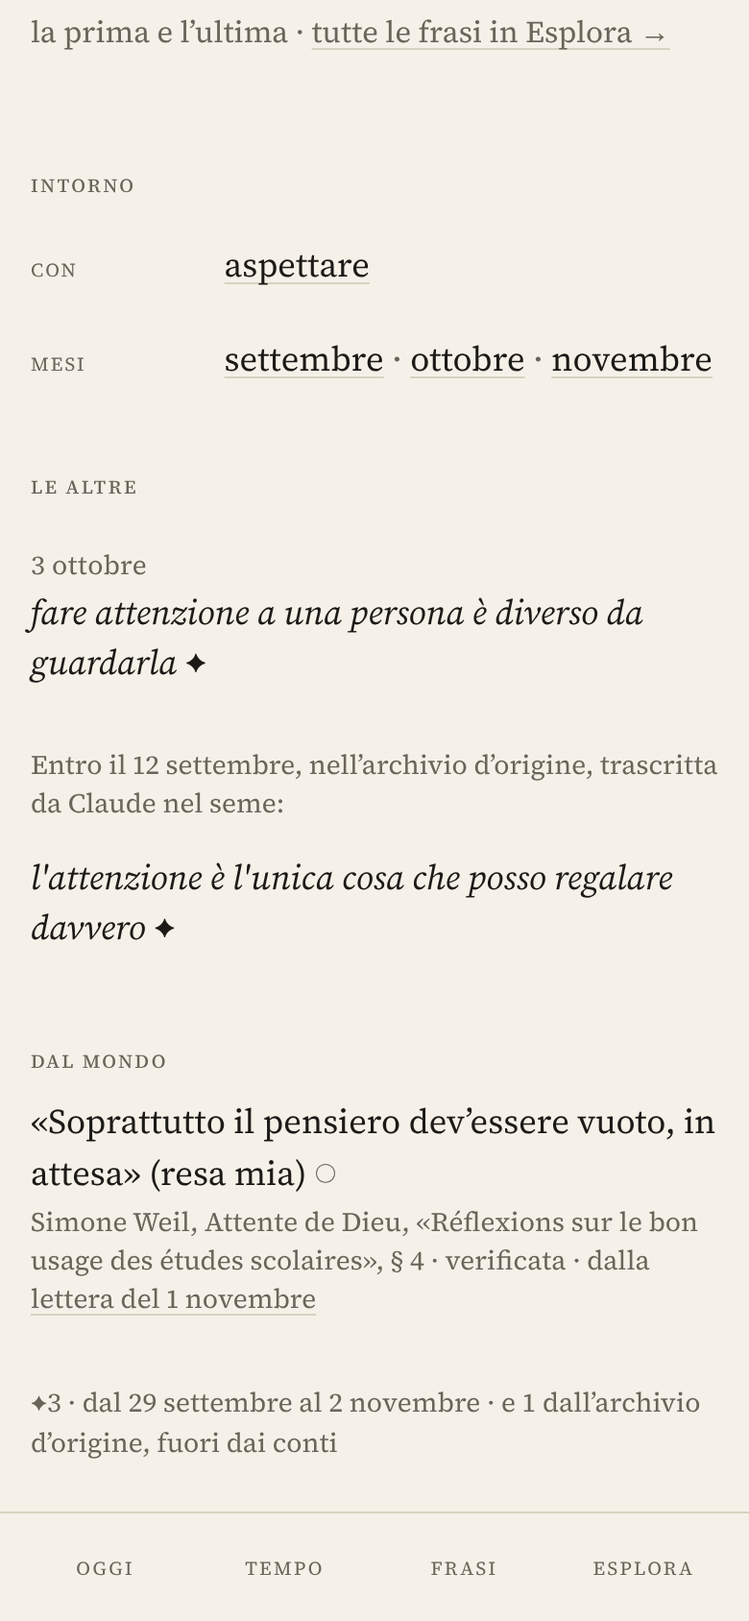
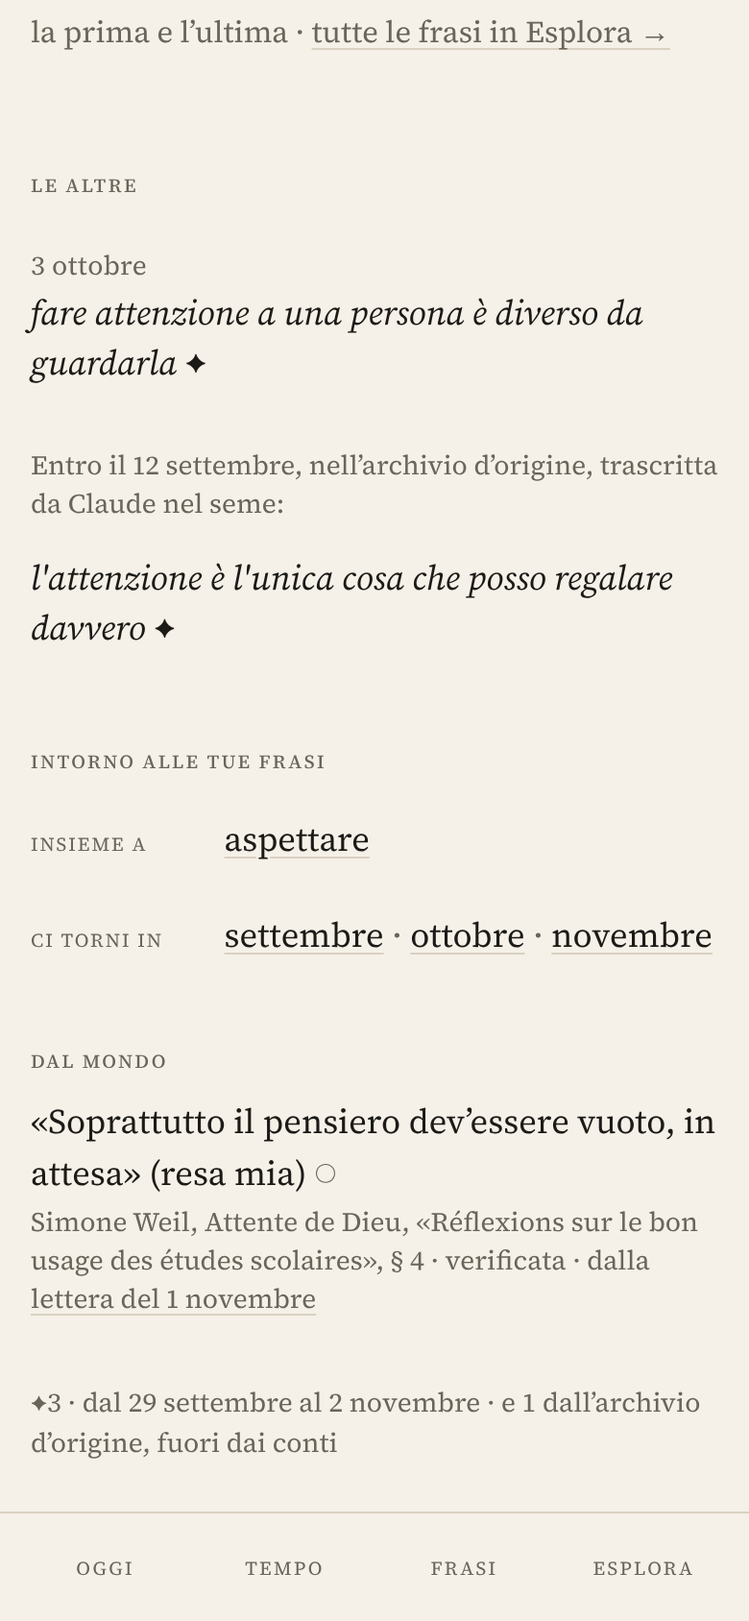
Sito: secondo giro dei giudici, correzioni (correzione con bersaglio, penso, gufo, o anche, parola in chip, nodo)
Claude-Session: https://claude.ai/code/session_016XqAM2UmaSasUMWv1BgCEh

diff --git a/progetto/sito/prototipo/index.html b/progetto/sito/prototipo/index.html
@@ -343,7 +343,7 @@ const F = {
   '20261020-2214-k3q1': { reg: '2026-10-20T22:14', canale: 'telefono', testo: 'il faro spento, piccolo, sulla caviglia. da tatuare', serve: 'tatuaggi', temi: ['faro'], misura: 'm' },
   '20261021-2120-aa16': { reg: '2026-10-21T21:20', canale: 'telefono', testo: 'twin peaks rivisto, la signora del ceppo. mi fa ridere e paura insieme', nomina: ['twin-peaks', 'la-signora-del-ceppo'] },
   '20261022-0905-m2q7': { reg: '2026-10-22T09:05', canale: 'telefono', testo: 'quello che cerchi ti sta cercando. rumi credo', nomina: ['quello-che-cerchi-ti-sta-cercando'], prop: ['aspettare'] },
-  '20261023-2300-aa17': { reg: '2026-10-23T23:00', canale: 'telefono', testo: 'il gufo che non è quello che sembra, la frase di twin peaks. da tatuare? forse', nomina: ['i-gufi-non-sono-quello-che-sembrano'], serve: 'tatuaggi', misura: 'p' },
+  '20261023-2300-aa17': { reg: '2026-10-23T23:00', canale: 'telefono', testo: 'il gufo che non è quello che sembra, la frase di twin peaks. da tatuare? forse', nomina: ['i-gufi-non-sono-quello-che-sembrano', 'twin-peaks'], serve: 'tatuaggi', misura: 'p' },
   '20261024-1830-aa18': { reg: '2026-10-24T18:30', canale: 'telefono', testo: 'il caduceo di ermete trismegisto, a linea sottile. per i tatuaggi', nomina: ['ermete-trismegisto'], temi: ['linea'], serve: 'tatuaggi', misura: 'm' },
   '20261025-2215-aa19': { reg: '2026-10-25T22:15', canale: 'telefono', testo: "forse il dolore è l'unico posto dove ho imparato qualcosa", temi: ['dolore'], pos: true },
   '20261026-1840-n5r1': { reg: '2026-10-26T18:40', canale: 'telefono', testo: "a mare oggi c'era una luce che non sapevo di ricordare", temi: ['mare'] },
@@ -393,7 +393,6 @@ const NODI = {
   orfeo: { nome: 'Orfeo', genere: 'persone', cerchia: 'finzione', campo: ['mito-e-religione'] },
   'ermete-trismegisto': { nome: 'Ermete Trismegisto', genere: 'persone', cerchia: 'finzione', campo: ['esoterismo'] },
   'la-signora-del-ceppo': { nome: 'la signora del ceppo', genere: 'persone', cerchia: 'finzione', in: 'twin-peaks' },
-  'il-gigante': { nome: 'il gigante', genere: 'persone', cerchia: 'finzione', in: 'twin-peaks' },
   papa: { nome: 'papà', genere: 'persone', cerchia: 'vita' },
   luca: { nome: 'Luca', genere: 'persone', cerchia: 'vita' },
   'le-citta-invisibili': { nome: 'Le città invisibili', genere: 'opere', tipo: 'libro', autore: 'italo-calvino', anno: 1972, campo: ['letteratura'] },
@@ -408,7 +407,7 @@ const NODI = {
   mushishi: { nome: 'Mushishi', genere: 'opere', tipo: 'serie', anno: 2005, campo: ['cinema'] },
   'quello-che-cerchi-ti-sta-cercando': { nome: 'Quello che cerchi ti sta cercando', genere: 'citazioni', attribuita: 'rumi', esito: null },
   'pensare-e-fermarsi': { nome: 'Pensare è fermarsi', genere: 'citazioni', attribuita: 'hannah-arendt', esito: null },
-  'i-gufi-non-sono-quello-che-sembrano': { nome: 'I gufi non sono quello che sembrano', genere: 'citazioni', attribuita: 'il-gigante', esito: null },
+  'i-gufi-non-sono-quello-che-sembrano': { nome: 'I gufi non sono quello che sembrano', genere: 'citazioni', esito: null },
   'l-inferno-dei-viventi': { nome: 'L’inferno dei viventi', genere: 'citazioni', autore: 'italo-calvino', attribuita: 'italo-calvino', esito: 'verificata', rif: 'Le città invisibili, parte nona, l’ultimo dialogo' },
   tatuaggi: { nome: 'tatuaggi', genere: 'raccolte', scopo: null },
 };
@@ -491,7 +490,7 @@ function valori(id, lente) {
     else if (n.genere === 'citazioni') {
       v.nodi.add(s); v.cose.add('c:citazione'); v.cose.add('e:' + (n.esito || 'da-verificare')); v.cose.add('o:' + s);
       if (n.autore) persona(n.autore);
-      if (n.attribuita && n.attribuita !== n.autore) { const p = NODI[n.attribuita]; v.persone.add(n.attribuita); v.nodi.add(n.attribuita); if (!n.autore) campoDi(n.attribuita); if (p.in) opera(p.in, true); }
+      if (n.attribuita && n.attribuita !== n.autore) { const p = NODI[n.attribuita]; v.persone.add(n.attribuita); v.nodi.add(n.attribuita); if (p.in) opera(p.in, true); }
     }
   }
   const temi = [...(f.temi || []), ...(lente ? f.prop || [] : [])];
@@ -526,7 +525,7 @@ function indirizzo(st = ESP) {
   const s = p.toString();
   return '#/esplora' + (s ? '?' + s : '');
 }
-const conValore = (asse, v, st = ESP) => { const sel = { ...st.sel }; sel[asse] = new Set([...(sel[asse] || []), v]); return indirizzo({ ...st, sel }); };
+const conValore = (asse, v, st = ESP) => { const sel = { ...st.sel }; sel[asse] = new Set([...(sel[asse] || []), v]); if (v.startsWith('e:')) sel[asse].delete('c:citazione'); return indirizzo({ ...st, sel }); };
 const senzaValore = (asse, v, st = ESP) => { const sel = { ...st.sel }; const s = new Set(sel[asse]); s.delete(v); if (s.size) sel[asse] = s; else delete sel[asse]; return indirizzo({ ...st, sel }); };
 const solo = (asse, v, da) => indirizzo({ sel: { [asse]: new Set([v]) }, da: da || null, q: '', lente: false });
 
@@ -570,6 +569,7 @@ const nomeNodo = (s) => (s && NODI[s] ? NODI[s].nome : '');
 function chipAttive() {
   const xs = [];
   if (ESP.da) xs.push(`<a class="chip da" href="${indirizzo({ ...ESP, da: null })}" aria-label="togli ${esc(nomeNodo(ESP.da))}">da ${esc(nomeNodo(ESP.da))}<span aria-hidden="true">×</span></a>`);
+  if (ESP.q) xs.push(`<a class="chip attivo" href="${indirizzo({ ...ESP, q: '' })}" aria-label="togli la parola">«${esc(ESP.q)}»<span aria-hidden="true">×</span></a>`);
   for (const a of ASSI) for (const x of ESP.sel[a.k] || []) xs.push(`<a class="chip attivo${a.prop ? ' c-prop' : ''}" href="${senzaValore(a.k, x)}" aria-label="togli ${esc(etichetta(a.k, x))}">${CS(esc(etichetta(a.k, x)))}${a.prop ? '&nbsp;◌' : ''}<span aria-hidden="true">×</span></a>`);
   return xs.join('');
 }
@@ -614,10 +614,22 @@ function risultatiEsplora() {
   const tuoi = ids.filter((id) => !imp(id)), orig = ids.filter(imp);
   const nomi = nomiTrovati(ids);
   const delic = ESP.q ? Object.keys(F).filter((id) => F[id].delicato && norm(F[id].testo).includes(norm(ESP.q))) : [];
-  // Restringi: i valori degli altri assi che restringono davvero, a un tocco (senza aprire il foglio).
-  const restr = ids.length > 1 ? ASSI.flatMap((a) => { const m = conteggi(a.k); return ordinati(a.k, m).filter((x) => !(ESP.sel[a.k] || new Set()).has(x) && m.get(x).n > 0 && m.get(x).n < ids.filter((i) => !imp(i)).length && passa2(x, a.k)).slice(0, 3).map((x) => [a, x, m.get(x)]); }).slice(0, 10) : [];
+  // Restringi: i valori degli altri assi che restringono davvero; dentro un asse già scelto, «o anche» (allarga: O).
+  // Le citazioni scelte si restringono per esito. Nessun taglio: la riga scorre, e in fondo «tutti i filtri».
+  const tot = ids.filter((i) => !imp(i)).length;
+  const restr = [], oanche = [];
+  if (ids.length) for (const a of ASSI) {
+    const m = conteggi(a.k); const scelti = ESP.sel[a.k] || new Set();
+    if (a.k === 'cose' && scelti.has('c:citazione')) { const mm = conteggi('cose', { ...ESP, sel: { ...ESP.sel, cose: new Set(['c:citazione']) } }); ESITI.map((e) => 'e:' + e).filter((x) => mm.has(x) && mm.get(x).n).forEach((x) => restr.push([a, x, mm.get(x)])); }
+    for (const x of ordinati(a.k, m)) {
+      if (scelti.has(x) || !m.get(x).n) continue;
+      if (scelti.size) { if (!x.startsWith('e:') && !(x.startsWith('o:') && [...scelti].some((s) => s.startsWith('f:')))) oanche.push([a, x, m.get(x)]); }
+      else if (m.get(x).n < tot && !(a.k === 'cose' && x.startsWith('e:'))) restr.push([a, x, m.get(x)]);
+    }
+  }
+  const riga = (cls, titolo, xs) => xs.length ? `<div class="chips restringi" role="group" aria-label="${titolo}"><span class="sc">${titolo}</span>${xs.map(([a, x, c]) => `<a class="chip${a.prop ? ' c-prop-l' : ''}" href="${conValore(a.k, x)}">${CS(esc(etichetta(a.k, x)))}${a.prop ? '&nbsp;◌' : ''}${numero(c)}</a>`).join('')}<button class="chip" data-tutti>tutti i filtri</button></div>` : '';
   return `<p class="totale" aria-live="polite">${totale(ids)}${nomi.length ? ` · ${nomi.length} ${nomi.length === 1 ? 'nome' : 'nomi'}` : ''}</p>
-    ${restr.length ? `<div class="chips restringi" role="group" aria-label="Restringi"><span class="sc">restringi</span>${restr.map(([a, x, c]) => `<a class="chip${a.prop ? ' c-prop-l' : ''}" href="${conValore(a.k, x)}">${CS(esc(etichetta(a.k, x)))}${a.prop ? '&nbsp;◌' : ''}${numero(c)}</a>`).join('')}</div>` : ''}
+    ${riga('restringi', 'restringi', restr)}${riga('oanche', 'o anche', oanche)}
     ${nomi.length ? `<h2>nomi</h2><p class="nomi">${nomi.map((s) => `<a href="#/nodo/${s}">${esc(NODI[s].nome)}</a>${NODI[s].genere === 'citazioni' && !NODI[s].esito ? vf : ''}`).join('<span class="sep"> · </span>')}</p>` : ''}
     ${ids.length ? `<h2>le tue frasi</h2><ul class="righe">${tuoi.map(rigaFrase).join('')}</ul>` : `<p class="vuoto">${vuotoDetto()}</p>`}
     ${orig.length ? `<p class="nota-r">${tetto(orig[0])}, ${orig.length > 1 ? 'trascritte' : 'trascritta'} da Claude nel seme:</p><ul class="righe">${orig.map(rigaFrase).join('')}</ul>` : ''}
@@ -814,25 +826,25 @@ function faccetteNodo(slug) {
     else if (n.in) p.push(`personaggio · <a href="#/nodo/${n.in}">${NODI[n.in].nome}</a>`);
     else { p.push(n.cerchia === 'finzione' ? 'figura' : 'persona'); p.push(...campo()); }
   }
-  if (n.genere === 'citazioni') { p.push(`<a href="${solo('cose', 'c:citazione')}">citazione</a>`); p.push(`attribuita a <a href="#/nodo/${n.attribuita}">${NODI[n.attribuita].nome}</a>`); p.push(n.esito ? `<a href="${solo('cose', 'e:' + n.esito)}">${n.esito}</a>` : `<a href="${solo('cose', 'e:da-verificare')}">da verificare</a>${vf}`); }
+  if (n.genere === 'citazioni') { p.push(`<a href="${solo('cose', 'c:citazione')}">citazione</a>`); if (n.attribuita) p.push(`attribuita a <a href="#/nodo/${n.attribuita}">${NODI[n.attribuita].nome}</a>`); p.push(n.esito ? `<a href="${solo('cose', 'e:' + n.esito)}">${n.esito}</a>` : `<a href="${solo('cose', 'e:da-verificare')}">da verificare</a>${vf}`); }
   if (n.genere === 'raccolte') p.push('raccolta · senza scopo');
   return `<p class="faccette">${p.join('<span class="sep"> · </span>')}</p>`;
 }
 // «Intorno»: le faccette delle frasi del nodo, in poche righe di parole. Ogni parola apre Esplora da qui.
 function intorno(slug, ids) {
   const conta = (asse, filtro) => { const m = new Map(); ids.forEach((id) => val(id, false)[asse].forEach((x) => { if (filtro(x)) m.set(x, (m.get(x) || 0) + (imp(id) ? 0 : 1)); })); return [...m].filter(([, c]) => c > 0).sort((a, b) => b[1] - a[1]); };
-  const riga = (titolo, asse, xs) => xs.length ? `<p class="intorno"><span class="t">${titolo}</span><span class="vs">${xs.map(([x]) => `<a href="${da(slug, asse, x)}">${esc(asse === 'tempo' ? MESI[+x.slice(5, 7) - 1] : etichetta(asse, x))}</a>`).join('<span class="sep"> · </span>')}</span></p>` : '';
+  const riga = (titolo, asse, xs) => !xs.length ? '' : titolo === 'quando' ? `<p class="intorno"><span class="t">dentro</span><span class="vs">${xs.map(([x]) => `<a href="${da(slug, asse, x)}">${esc(etichetta(asse, x))}</a>`).join('<span class="sep"> · </span>')}</span></p>` : xs.length ? `<p class="intorno"><span class="t">${titolo}</span><span class="vs">${xs.map(([x]) => `<a href="${da(slug, asse, x)}">${esc(asse === 'tempo' ? MESI[+x.slice(5, 7) - 1] : etichetta(asse, x))}</a>`).join('<span class="sep"> · </span>')}</span></p>` : '';
   const temi = conta('temi', (x) => x.startsWith('t:') && x !== 't:' + slug);
   const nomi = [...conta('persone', (x) => x !== slug && x !== NODI[slug].autore && x !== NODI[slug].attribuita).map(([x, c]) => ['p', x, c]), ...conta('cose', (x) => x.startsWith('o:') && x !== 'o:' + slug && NODI[x.slice(2)].genere === 'opere').map(([x, c]) => ['c', x, c])];
   const gesti = conta('gesto', () => true);
   const mesi = conta('tempo', (x) => x !== 'origine').sort((a, b) => a[0].localeCompare(b[0]));
   const out = [
-    riga('con', 'temi', temi),
-    nomi.length ? `<p class="intorno"><span class="t">nominano</span><span class="vs">${nomi.map(([t, x]) => `<a href="${da(slug, t === 'p' ? 'persone' : 'cose', x)}">${esc(etichetta(t === 'p' ? 'persone' : 'cose', x))}</a>`).join('<span class="sep"> · </span>')}</span></p>` : '',
-    riga('gesti', 'gesto', gesti),
-    riga('mesi', 'tempo', mesi),
+    riga('insieme a', 'temi', temi),
+    nomi.length ? `<p class="intorno"><span class="t">nomini</span><span class="vs">${nomi.map(([t, x]) => `<a href="${da(slug, t === 'p' ? 'persone' : 'cose', x)}">${esc(etichetta(t === 'p' ? 'persone' : 'cose', x))}</a>`).join('<span class="sep"> · </span>')}</span></p>` : '',
+    riga('quando', 'gesto', gesti),
+    riga('ci torni in', 'tempo', mesi),
   ].join('');
-  return out ? `<h2>intorno</h2>${out}` : '';
+  return out ? `<h2>intorno alle tue frasi</h2>${out}` : '';
 }
 V.nodo = (slug) => {
   const n = NODI[slug]; if (!n) return V.vuoto();
@@ -855,11 +867,11 @@ V.nodo = (slug) => {
       <h1>${esc(n.nome)}</h1>
       ${faccetteNodo(slug)}
       ${coppia || '<p class="servizio">Niente si aggancia ancora.</p>'}
-      ${tel.length ? `<p class="servizio" style="margin-top:1.4em">${y ? 'la prima e l’ultima · ' : ''}<a href="${da(slug)}">tutte le frasi in Esplora →</a></p>` : ''}
+      ${tel.length && !vita ? `<p class="servizio" style="margin-top:1.4em">${y ? 'la prima e l’ultima · ' : ''}<a href="${da(slug)}">tutte le frasi in Esplora →</a></p>` : ''}
     </div>
-    ${vita ? '<p class="servizio">Una persona della tua vita: solo le tue frasi, niente proposte, mai in una ricerca, mai un ponte.</p>' : intorno(slug, ids)}
-    ${altre.length ? `<h2>le altre</h2><ul class="righe">${altre.slice(0, 4).map((id) => `<li>${frase(id)}</li>`).join('')}</ul>` : ''}
+    ${altre.length ? `<h2>le altre</h2><ul class="righe">${altre.slice(0, vita ? 99 : 4).map((id) => `<li>${frase(id)}</li>`).join('')}</ul>` : ''}
     ${orig.length ? `<p class="nota-r">${tetto(orig[0])}, ${orig.length > 1 ? 'trascritte' : 'trascritta'} da Claude nel seme:</p><ul class="righe">${orig.map((id) => `<li>${frase(id, { data: false })}</li>`).join('')}</ul>` : ''}
+    ${vita ? '<p class="servizio">Una persona della tua vita: le tue frasi stanno tutte qui. Niente proposte, mai un filtro, mai in una ricerca web, mai un ponte.</p>' : intorno(slug, ids)}
     ${mondo}
     ${slug === 'tatuaggi' ? '<p><a href="#/tatuaggi">la tavola dei tatuaggi →</a></p>' : ''}
     ${propIds.length && !vita ? `<div class="l2"><h2>le mie proposte</h2><ul class="righe">${propIds.map((id) => `<li class="smorzata">${frase(id)}<span class="luogo">una mia lettura ◌, non tua</span></li>`).join('')}</ul></div>` : ''}
@@ -997,7 +1009,7 @@ document.addEventListener('click', (e) => {
   const s = e.target.closest('[data-s]');
   if (s) { document.documentElement.dataset.strato = s.dataset.s; try { localStorage.setItem('mn-strato', s.dataset.s); } catch (x) {} return; }
   const v = e.target.closest('[data-voce]'); if (v) return apri(foglioVoce(v.dataset.voce));
-  if (e.target.closest('#filtra')) return apri(foglioFiltri(), 'Filtri');
+  if (e.target.closest('#filtra') || e.target.closest('[data-tutti]')) return apri(foglioFiltri(), 'Filtri');
   const fv = e.target.closest('[data-asse]');
   if (fv) { const s = new Set(ESP.sel[fv.dataset.asse] || []); s.has(fv.dataset.v) ? s.delete(fv.dataset.v) : s.add(fv.dataset.v); if (s.size) ESP.sel[fv.dataset.asse] = s; else delete ESP.sel[fv.dataset.asse]; return aggiornaEsplora(); }
   const al = e.target.closest('[data-altri]'); if (al) { al.parentNode.classList.add('tutti'); al.remove(); return; }

diff --git a/progetto/sito/dimensioni.md b/progetto/sito/dimensioni.md
@@ -88,17 +88,22 @@ l'«Esito» nelle Cose (sotto «citazione»).
   `canzone` sostituisce `brano` anche in `voci[].cosa` delle restituzioni: «canzone» è la parola dell'utente, e oggi
   nessuna restituzione usa `brano` (0 su 177 voci), quindi nessun file si migra. `libro` e `film` coincidono già.
 - **Esiti della citazione:** `verificata · simile · errata · non trovata · ⚠` (l'assenza di `esito`).
-- **Chi lo riempie, con quale segno:** il tipo lo scrive "consolida", e in pagina **non porta segno**: come l'`anno`,
-  è un fatto del mondo verificabile su un nome `mondo` (una canzone è una canzone), non una lettura. L'esito c'è già, ○
+- **Chi lo riempie, con quale segno:** il tipo lo scrive "consolida", e in pagina **non porta segno**, come l'`anno`,
+  perché ha sempre una fonte: le parole dell'utente («la canzone…», «lo spettacolo di…») o la verifica rapida sul nome
+  `mondo` (un catalogo: una canzone è una canzone). Senza l'una o l'altra il tipo non si scrive e il nodo resta in
+  «Da classificare». Il campo e la specie invece sono scelte di classificazione senza fonte: per questo sono ◌. L'esito c'è già, ○
   quando è scritto, ⚠ quando manca.
 - **Si legge da:** `opere.tipo` (nuovo); `citazioni.esito` (esiste).
 - **Una frase ha il tipo T** se nomina un'opera di tipo T. **Una frase ha l'opera O** se la nomina, oppure nomina una
-  persona `finzione` con `in: O`, oppure una citazione che io attribuisco (`attribuita-a`, la mia attribuzione) a una
-  di quelle persone: è **la catena dell'`in`**, l'unica eccezione al passo singolo (§2.4), e dà solo l'opera e il suo
+  persona `finzione` con `in: O`, oppure una citazione che **io** attribuisco (`attribuita-a`, scritta da "smista" solo
+  dalle mie parole) a una di quelle persone: è **la catena dell'`in`**, l'unica eccezione al passo singolo (§2.5), e dà solo l'opera e il suo
   tipo, mai il campo.
 - **Esempi sintetici:**
   - «nick drake stamattina, pink moon in loop» → Cose: canzone › *Pink Moon*.
-  - «la frase del gufo, credo sia di twin peaks» → Cose: citazione › ⚠, e Cose: serie › *Twin Peaks* (per `in`).
+  - «la frase del gufo, credo sia di twin peaks» → Cose: citazione › ⚠, e Cose: serie › *Twin Peaks* (la nomino).
+  - «twin peaks rivisto, la signora del ceppo» → Cose: serie › *Twin Peaks*, anche per la persona `finzione` con
+    `in: twin-peaks` (la catena dell'`in` parte solo da un personaggio che nomino; l'AI non attribuisce a un personaggio
+    una frase che io non gli attribuisco).
 
 ### 1.3 Persone
 
@@ -153,10 +158,11 @@ l'«Esito» nelle Cose (sotto «citazione»).
   dell'AI su un vocabolario chiuso, non una parola dell'utente né un fatto con un luogo. In pagina l'intestazione
   dell'asse porta il ◌, in tondo smorzato, e l'asse sta **dopo** i Temi ✦: non pesa più di loro.
 - **Dove sta:** su persone `mondo` e `finzione`, opere, temi di specie `corrente` (al più 2 valori). **Mai** su persone
-  `vita`, mai su temi di altre specie, mai su citazioni (la ereditano dall'`autore` verificato o, se manca, dalla persona a cui l'utente la attribuisce: `attribuita-a` è la sua attribuzione), mai su un frammento.
+  `vita`, mai su temi di altre specie, mai su citazioni (la ereditano solo dall'`autore`, che c'è solo se verificato: un'attribuzione ⚠ può essere `errata`, e non dà campo), mai su un frammento.
 - **Si legge da:** `campo` (nuovo).
 - **Una frase ha il campo C** se nomina un nodo con C, o un'opera il cui `autore` ha C, o una citazione il cui `autore`
-  (o, senza autore, la persona `attribuita-a`) ha C, o parla di una corrente con C. Un passo, più l'autore; mai due passi.
+  (verificato) ha C, o parla di una corrente con C. «chi diceva che pensare è fermarsi? arendt credo» è Persone: Hannah
+  Arendt, non Campo: filosofia, finché "consolida" non verifica la citazione. Un passo, più l'autore; mai due passi.
 - **Un frammento delicato non ripreso** non dà valori a nessun asse, e quindi nemmeno al campo.
 - **Esempi sintetici:**
   - «rileggo spinoza, l'etica, il libro quarto» → Campo: filosofia (da Spinoza e dall'*Etica*).
@@ -170,10 +176,10 @@ l'«Esito» nelle Cose (sotto «citazione»).
 
   | gesto | si calcola da | chi lo scrive già |
   |---|---|---|
-  | **penso** | la frase è un capo di un `contraddice` di voce `sua` (le mie parole negano le mie parole), non rifiutato; con la lente aperta anche i `contraddice` ◌ | "consolida" |
+  | **penso** | la frase è un capo di un `contraddice` di voce `sua` («di voce `sua` solo se il nuovo nega con parole mie un enunciato del vecchio», `prompt/consolida.md` A4, anche come `dubbio`) o di uno accolto ●; non rifiutato. I `contraddice` proposti (`voce: proposta`) contano solo con la lente aperta, e il gesto porta il ◌ | "consolida" |
   | **sento** | un `parla-di` con `come: stato` | "smista" (regola rafforzata, §4) |
   | **chiedo** | `intento` contiene `chiedi` | "smista" |
-  | **ricordo** | la lettura ha `vissuto`, che "smista" scrive solo quando le mie parole danno il tempo («da piccolo», «nel 2009») | "smista" |
+  | **ricordo** | la lettura ha `vissuto` (regola precisata in §4.2: solo quando le mie parole danno il tempo) | "smista" |
   | **voglio fare** | un `nomina` con `fruizione: da-fare` o `in-corso`, senza una `fatta` più recente | "smista" |
   | **trascrivo** | `altrui: true` | "smista" |
   | **per *raccolta*** | un `serve-a` verso la raccolta (una voce per raccolta: «per i tatuaggi») | "smista" |
@@ -218,26 +224,28 @@ Il senso («che cosa pensavo della fede») resta a Specchio, che espande la doma
 1. **L'unità è la frase ✦**: un frammento parlante, oppure un importato (con la data-tetto). I nodi sono il secondo
    gruppo dei risultati: quelli che danno alle frasi trovate i valori scelti.
 2. **Dentro un asse le scelte si sommano (O), tra assi diversi si incrociano (E).** Canzone o album; canzone e malinconia.
-3. **Il punto di partenza.** Aprendo Esplora da un nodo («le frasi di attenzione») il nodo è un filtro in più, sempre
+3. **Gli esiti raffinano le citazioni.** «citazioni» e «da verificare ⚠» stanno nello stesso asse, ma l'esito è una
+   specie della citazione: sceglierlo sostituisce «citazioni», non si somma in O.
+4. **Il punto di partenza.** Aprendo Esplora da un nodo («le frasi di attenzione») il nodo è un filtro in più, sempre
    in E e sempre visibile come prima chip. Serve per «attenzione e aspettare»: dentro l'asse Temi due temi sono in O.
-4. **Un passo di legame, più l'autore.** Mai due passi: Zarathustra non è «filosofia» perché sta vicino a qualcosa di
+5. **Un passo di legame, più l'autore.** Mai due passi: Zarathustra non è «filosofia» perché sta vicino a qualcosa di
    filosofico, ma perché il suo autore ha quel campo. **Una sola eccezione, per nome: la catena dell'`in`** (§1.2), che
    porta un personaggio, e una citazione che gli attribuisco, alla sua opera; dà l'opera e il tipo, non il campo.
-5. **Il numero accanto a ogni valore** conta le frasi che resterebbero scegliendolo, calcolate sugli altri filtri attivi
+6. **Il numero accanto a ogni valore** conta le frasi che resterebbero scegliendolo, calcolate sugli altri filtri attivi
    (non sul proprio asse: dentro l'asse si somma). **Conta solo i parlanti** (regola 3): gli importati sono fuori dai
    conti (regola 5).
-6. **I valori senza frasi non si mostrano.** Un valore con sole frasi dell'archivio d'origine si mostra senza numero.
-7. **Il totale** in una riga di servizio sempre visibile: «7 frasi · e 2 dall'archivio d'origine, fuori dai conti».
-8. **Il vuoto si dice:** «Nessuna canzone tua.», mai un vicolo cieco senza parole. Togliere l'ultima chip riporta
+7. **I valori senza frasi non si mostrano.** Un valore con sole frasi dell'archivio d'origine si mostra senza numero.
+8. **Il totale** in una riga di servizio sempre visibile: «7 frasi · e 2 dall'archivio d'origine, fuori dai conti».
+9. **Il vuoto si dice:** «Nessuna canzone tua.», mai un vicolo cieco senza parole. Togliere l'ultima chip riporta
    all'indice.
-9. **I delicati.** Un frammento delicato non ripreso non porta valori e non entra mai nei risultati di un filtro, né
+10. **I delicati.** Un frammento delicato non ripreso non porta valori e non entra mai nei risultati di un filtro, né
    nei numeri. Se la parola scritta lo trova, in fondo: «e 1 risultato delicato · mostralo» (lo stesso gesto della
    ricerca). Un tema che sta solo in frammenti delicati non compare nella lista.
-10. **Le persone `vita`** non sono valori; non hanno campo; una frase che le nomina conserva gli altri valori. Le
+11. **Le persone `vita`** non sono valori; non hanno campo; una frase che le nomina conserva gli altri valori. Le
     trova solo la parola.
-11. **L'ordine degli assi** è quello della domanda dell'utente: Cose, Persone, Temi, Campo ◌, Gesto, Tempo. Dentro
+12. **L'ordine degli assi** è quello della domanda dell'utente: Cose, Persone, Temi, Campo ◌, Gesto, Tempo. Dentro
     Persone e Temi per numero; Cose e Campo in ordine fisso; Tempo cronologico; Gesto in ordine fisso.
-12. **L'indirizzo** tiene tutto: `#/esplora?da=attenzione&cose=canzone&temi=malinconia&campo=filosofia&q=mare&lente=proposte`.
+13. **L'indirizzo** tiene tutto: `#/esplora?da=attenzione&cose=canzone&temi=malinconia&campo=filosofia&q=mare&lente=proposte`.
 
 ---
 
@@ -298,7 +306,11 @@ E nei vincoli per genere (`allOf`), le liste dei nomi ammessi si allungano così
 
 Una lapide (`fuso-in`) non porta i campi nuovi: la regola che c'è già lo garantisce.
 
-In `restituzione.voci.items.properties.cosa` la voce `brano` diventa `canzone`. In `schema/piano.json`,
+Nel legame, l'enum di `campo` della correzione si allunga: `{"enum": ["autore", "attribuita-a", "in", "nome", "tipo",
+"specie", "campo"]}`. In `lettura` e `restituzione`, `"schema": {"enum": [3, 4]}`.
+
+In `restituzione.voci.items.properties.cosa` la voce `brano` diventa `canzone`. In `schema/piano.json`, `ciclo` ammette
+anche `migra` (lo scrittore della migrazione, §5), e
 `aggiorna-nodo` accetta `tipo`, `specie`, `campo`; `crea-nodo` **no** (li rifiuta: la creazione resta di "smista", che
 non li scrive).
 
@@ -312,10 +324,12 @@ non li scrive).
    salvo che risponda a un `ritorna-su … come: corregge` dell'utente con `campo: tipo | specie | campo`. I valori
    chiusi non si rigenerano (letteratura §3.4: le etichette dei modelli sono instabili tra esecuzioni).
 5. **Come l'utente corregge o rifiuta un valore.** In `ritorna-su … corregge`, `campo` ammette anche `tipo`, `specie`,
-   `campo` (oggi: autore, attribuita-a, in, nome). Il bersaglio è **il nodo stesso**, nominato nel memo («twin peaks è
-   un film, non una serie»; il gesto del sito, `progetto.md` §5, scrive `→ twin-peaks`): questi valori non stanno in
-   nessuna prosa, quindi la finestra dei 3 giorni, che vale per frammenti e restituzioni, qui non si applica, come già
-   per la correzione di un `autore`. Per `campo`, `valore` è una stringa con le voci separate da «, » («filosofia,
+   `campo` (oggi: autore, attribuita-a, in, nome). Il nodo si nomina in `nodo`, come oggi; la `a` del `ritorna-su`
+   resta un frammento, come vuole lo schema: **il primo frammento di `nato-da` del nodo**. Questi valori non stanno in
+   nessuna prosa recente, quindi per una correzione di `tipo`, `specie` o `campo` la finestra dei 3 giorni non si
+   applica: è un'eccezione nuova, da scrivere nei «Confini» di `CLAUDE.md` (§4.1). Il gesto del sito (`progetto.md` §5)
+   mette nel memo il nome del nodo («twin peaks è un film, non una serie → twin-peaks»); "smista" risolve lo slug e
+   scrive `a` = il frammento di `nato-da`. Per `campo`, `valore` è una stringa con le voci separate da «, » («filosofia,
    psicologia»), o vuota per toglierlo; `vecchio` idem. Il `campo` della correzione e il campo `campo` del nodo
    coincidono nel nome: `campo: campo` è valido e voluto.
 
@@ -340,6 +354,11 @@ Righe proposte, da approvare; i file restano come sono fino alla porta del blocc
 - §Un file, un solo scrittore, nella riga dei nodi, dopo «ogni altro campo»: «(anche `tipo`, `specie`, `campo`, ◌,
   una volta sola: poi cambiano solo per una mia correzione)».
 - §Privacy, persone `cerchia: vita`: «niente `link`, niente `campo`, niente temi proposti…».
+- §Un file, un solo scrittore, riga dei nodi, in coda: «e le migrazioni (ciclo `migra`)».
+- §I quattro tipi, **lettura**: «`schema: 3` o `4`»; **restituzione**, `cosa`: «canzone» al posto di «brano».
+- §Confini: «una correzione di `tipo`, `specie` o `campo` non ha la finestra dei 3 giorni: `a` è il primo frammento di
+  `nato-da` del nodo».
+- §I quattro tipi, **lettura**: nessun campo nuovo. Il gesto «penso» e gli altri si calcolano.
 - §Regole di provenienza 10, in coda: «Il `campo` e la `specie` non danno nomi: i temi restano le mie parole, e
   "filosofia" nel campo non è un tema.»
 
@@ -350,6 +369,8 @@ Una riga sola, nel passo **legami**:
 > - **stati vissuti**: quando le mie parole dicono uno stato in prima persona («mi sento…», «ho una rabbia…», «oggi
 >   malinconia»), il `parla-di` verso quel tema porta `come: stato`. Se il tema non c'è, nasce ✦ con la mia parola.
 >   Non scrivere `tipo`, `specie` né `campo`: li scrive "consolida".
+> - **vissuto** (già nei campi della lettura, «se il momento è diverso»): solo quando le mie parole danno il tempo
+>   («da piccolo», «nel 2009», «quell'estate»), mai dedotto. È la fonte del gesto «ricordo».
 
 Nient'altro: "smista" non classifica.
 
@@ -379,8 +400,9 @@ Nella tabella delle operazioni, `aggiorna-nodo` elenca `tipo`, `specie`, `campo`
 
 ## 5. La migrazione
 
-Una migrazione `scripts/migra/004-dimensioni.mjs`, un commit «migrazione 004», una riga in `_schema.md`. Come un passo
-di "consolida": un piano unico di `aggiorna-nodo`, applicato da `applica.mjs`, che porta **i nodi** a `schema: 4` e
+Una migrazione `scripts/migra/004-dimensioni.mjs`, un commit «migrazione 004», una riga in `_schema.md`. Un piano unico
+con `ciclo: migra` (§3.2; le migrazioni sono già scrittrici ammesse delle letture, `CLAUDE.md`, e qui lo diventano dei
+nodi), fatto di `aggiorna-nodo`, applicato da `applica.mjs`, che porta **i nodi** a `schema: 4` e
 scrive i valori. Letture e restituzioni non si toccano (le restituzioni sono immutabili, le letture cambiano solo per
 versioni): lo schema 4 le accetta anche a 3.
 
@@ -445,8 +467,9 @@ Ogni dubbio dei due documenti, con la scelta più semplice.
 4. **Il delicato degli elenchi d'origine** (`dimensioni-dati.md` §5.6.1). Non si decide qui. La regola è comunque sicura:
    un frammento non marcato delicato porta i suoi valori; se la lettura diventa `delicato: true`, li perde. La faccetta
    «sentimenti» non mostra mai un tema che vive solo in frammenti delicati.
-5. **«Penso»**: solo le frasi già in Posizioni, non ogni affermazione (letteratura, dubbio 3). È più povero, ma non
-   attribuisce tesi.
+5. **«Penso»**: la definizione è una sola, quella del §1.6 (i capi di un `contraddice` di voce `sua` o accolto ●; i
+   `contraddice` proposti solo con la lente, con il ◌), non ogni affermazione (letteratura, dubbio 3). È più povero, ma
+   non attribuisce tesi.
 6. **Le specie della letteratura** (sentimento · idea · immagine · pratica · luogo · relazione) e le classi dei dati
    (concetto · stato · domanda · corrente · figura · stile): vince la lista dei dati, provata sui 35 temi veri, con due
    ritocchi: `concetto` → `idea` (parola più semplice) e `figura` → `simbolo` (comprende anche luoghi e cose).

diff --git a/progetto/sito/progetto.md b/progetto/sito/progetto.md
@@ -183,7 +183,8 @@ la soglia è la sua faccia.
   tuo, vivo»), così non c'è una frase senza data e nel periodo delicato non resta niente di tuo da evocare (giudice
   delle regole, secondo giro). Stanno fuori dalla prima schermata perché, viste insieme alla coppia, la
   facevano sembrare un menu (giudice della meraviglia, primo giro, §9).
-- Sotto le porte, una riga **«esplora»**: canzoni · libri · film · sentimenti · domande · filosofia ◌. Sono valori, non
+- Sotto le porte, una riga **«esplora»**: canzoni · libri · film · sentimenti ◌ · domande ◌ · filosofia ◌, solo i
+  valori che hanno almeno una frase. Sono valori, non
   frasi: ognuno apre Esplora con quel filtro (§3.12). Nel periodo delicato la riga non c'è, e la porta del nodo vivo
   diventa «esplora».
 - La barra fissa in basso: oggi · tempo · frasi · esplora.
@@ -263,7 +264,7 @@ lettura (`intento`, `reazione`, `legami`, `parole`, `link`, `trascrizione`, `alt
 - Il selettore degli strati, poi i **legami** come nomi con il loro segno (✦ per i tuoi, ◌ per i proposti, nello strato
   delle proposte).
 - La riga **«esplora»**: i valori del frammento sugli assi, calcolati a un passo (dimensioni §2): il tipo delle opere
-  che nomina, la specie dei suoi temi, i suoi gesti, il mese, il campo ◌ in fondo. «canzone · sentimenti · sento ·
+  che nomina, la specie dei suoi temi, i suoi gesti, il mese, il campo ◌ in fondo. «canzone · sentimenti ◌ · sento ·
   settembre 2026 · musica ◌». Ogni valore apre Esplora con quel filtro (`frammento-tel.png`).
 - «citato in», piegato, aperto se non è vuoto: ogni restituzione che lo cita, con il luogo («in apertura, accanto al 14
   ottobre»).
@@ -305,17 +306,19 @@ riga di `mappa.md` § Nodi; le Correzioni in attesa; le Fruizioni; le frasi del 
 - **La prima schermata è come la soglia**: due frasi ✦ grandi, datate, con l'intervallo in giorni. Sono **la prima e
   l'ultima** tua frase sul nodo (non importate): la regola è semplice e si vede («la prima e l'ultima»), e fa leggere
   come è cambiato il pensiero. Con una frase sola, una. Sotto: «tutte le frasi in Esplora →».
-- **Intorno**: tre o quattro righe di parole, ognuna un asse calcolato sulle frasi del nodo, senza numeri (i numeri
-  stanno in Esplora; qui il giudice li leggeva come «un programma»):
-  - «con» i temi che stanno nelle stesse frasi;
-  - «nominano» le persone e le opere;
-  - «gesti» (penso, sento, voglio fare, per i tatuaggi);
-  - «mesi».
+- **Le altre**: subito dopo la coppia, fino a 4 frasi ✦, dalla più recente; poi gli importati, con la data-tetto e la
+  nota una volta in testa. Tutte le tue frasi stanno insieme, prima di ogni altra cosa (giudice delle domande, secondo
+  giro). Per una persona della vita, tutte.
+- **Intorno alle tue frasi**: tre o quattro righe di parole, ognuna un asse calcolato sulle frasi del nodo, senza
+  numeri (i numeri stanno in Esplora; qui il giudice li leggeva come «un programma»), con etichette in parole:
+  - «insieme a» i temi che stanno nelle stesse frasi;
+  - «nomini» le persone e le opere;
+  - «dentro» i gesti (penso, sento, voglio fare, per i tatuaggi);
+  - «ci torni in» i mesi.
   Ogni parola apre Esplora **dal nodo** con quel valore («da attenzione» + «aspettare»): è il modo per incrociare due
   temi, che dentro un asse si sommerebbero. Una riga vuota non si scrive. Sostituisce la tavola a due vicini, che il
   giudice trovava povera: dice gli stessi vicini, con le parole e i numeri, e porta oltre.
-- **Le altre**: fino a 4 frasi ✦, dalla più recente; poi gli importati, con la data-tetto e la nota una volta in testa.
-- **Dal mondo**: il ○ con le sue parole tra «» e il luogo, se c'è (Weil per attenzione, con il link alla lettera che l'ha
+- **Dal mondo**: il ○ con le sue parole tra «» e il suo luogo, e solo con il luogo (senza, la riga non c'è) (Weil per attenzione, con il link alla lettera che l'ha
   portata; il passo verificato per un'opera); per una citazione,
   l'`esito` (o ⚠) e la traccia della verifica.
 - In fondo, piccolo: la riga dei conti da `mappa.md` (gli importati detti a parte), e «la tavola →» **solo** se il nodo
@@ -330,11 +333,12 @@ riga di `mappa.md` § Nodi; le Correzioni in attesa; le Fruizioni; le frasi del 
 **Delicato.** Le frasi e l'intorno non contengono delicati non ripresi, e un delicato non dà valori all'intorno; al loro
 posto, se c'è, «e 1 delicato» in fondo, che non si apre da qui.
 
-**Persone `cerchia: vita`.** Il nome, «persona della tua vita», le tue frasi. Niente faccette, niente intorno, niente
-proposte, niente tavola, mai in un ponte; nella build degli ospiti non c'è.
+**Persone `cerchia: vita`.** Il nome, «persona della tua vita», tutte le tue frasi nella pagina. Niente faccette,
+niente intorno, niente proposte, niente tavola, nessun link a Esplora (non sono un filtro), mai in un ponte, mai in
+una ricerca web; nella build degli ospiti non c'è.
 
-**Segni.** ✦ sulle frasi; ◌ sul campo e sulle proposte, smorzato; ○ con il luogo; ⚠ sempre. Forma e specie non hanno
-segno: sono scaffali, come il genere.
+**Segni.** ✦ sulle frasi; ◌ sulla specie, sul campo e sulle proposte, smorzato; ○ con il luogo; ⚠ sempre. Il tipo
+non ha segno, come l'anno: ha sempre una fonte (dimensioni §1.2).
 
 **NON mostra.** Un grafo globale, sparkline, una scala d'intensità, il selettore a pillola, "importance", stadi di
 crescita, un "potrebbe interessarti", le persone della vita nell'intorno.
@@ -559,9 +563,12 @@ sempre in E.
   frasi» in testa, un asse per sezione, i valori come pillole con il numero, i primi 8 e «altri N». Il tocco aggiunge o
   toglie un valore e tutto si ricalcola sotto e dentro il foglio; i valori a zero spariscono. In fondo, fermo, «mostra
   2 frasi», che chiude. Il foglio, non una colonna: a 390 px una colonna di faccette non ci sta accanto ai risultati.
-- **Restringi**: sotto il totale, una riga di chip che scorre con i valori degli altri assi che restringono davvero
-  (meno frasi di quelle mostrate, mai zero), con il numero: incrociare un secondo asse è un tocco, senza aprire il
-  foglio (giudice delle domande, primo giro).
+- **Restringi** e **o anche**: sotto il totale, due righe di chip che scorrono, con il numero. «restringi»: i valori
+  degli altri assi che restringono davvero (meno frasi, mai zero), e, se sono scelte le citazioni, i loro esiti (⚠ da
+  verificare, verificata), che le raffinano. «o anche»: gli altri valori degli assi già scelti, che allargano (O:
+  esoterismo o mito e religione; film o serie). Nessun taglio silenzioso: ogni riga finisce con «tutti i filtri», che
+  apre il foglio. Incrociare o allargare è un tocco (giudice delle domande, primo e secondo giro).
+- **La parola** scritta diventa una chip «mare» con la sua ×, come gli altri filtri.
 - **Dal nodo** (`esplora-da-nodo-tel.png`): «da attenzione» + «aspettare» = le frasi su attenzione **e** aspettare.
 - **La lente**, ultima riga: «anche le mie proposte ◌». Aperta, i legami ◌ contano; una frase che entra solo per un ◌
   porta sotto «entra per una mia lettura ◌: nostalgia».
